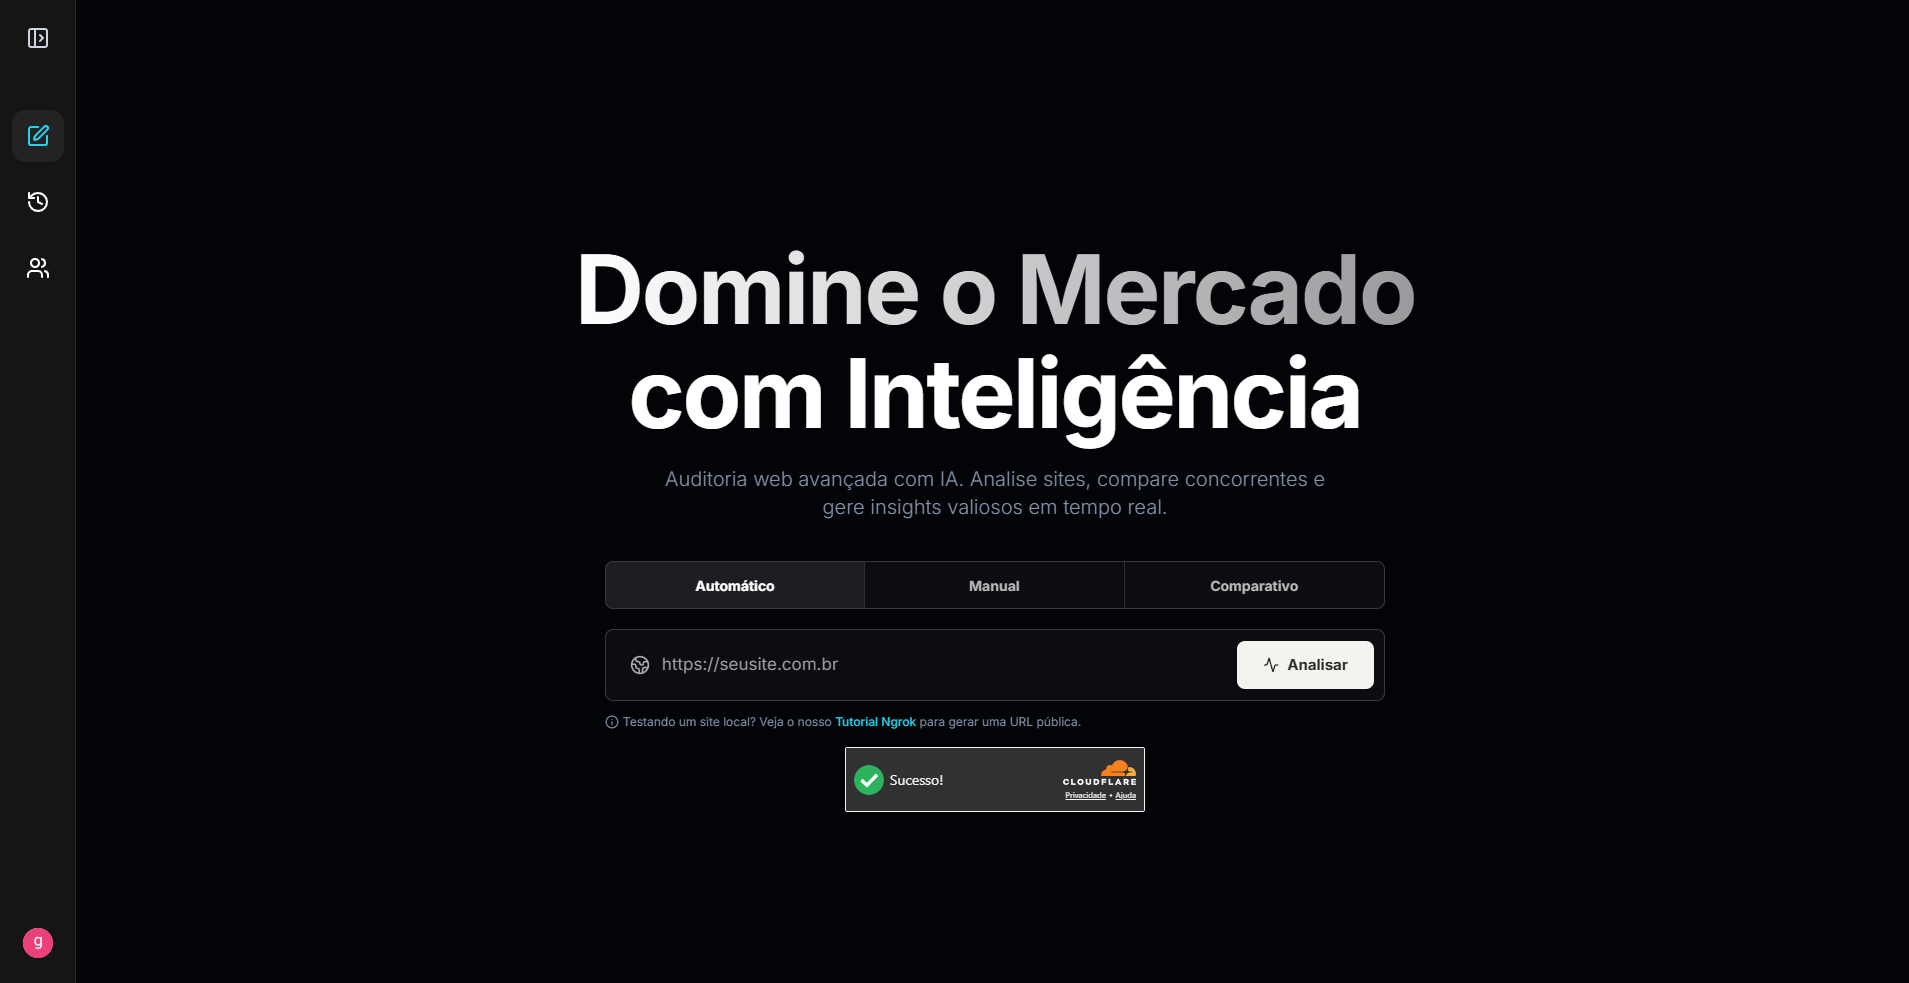
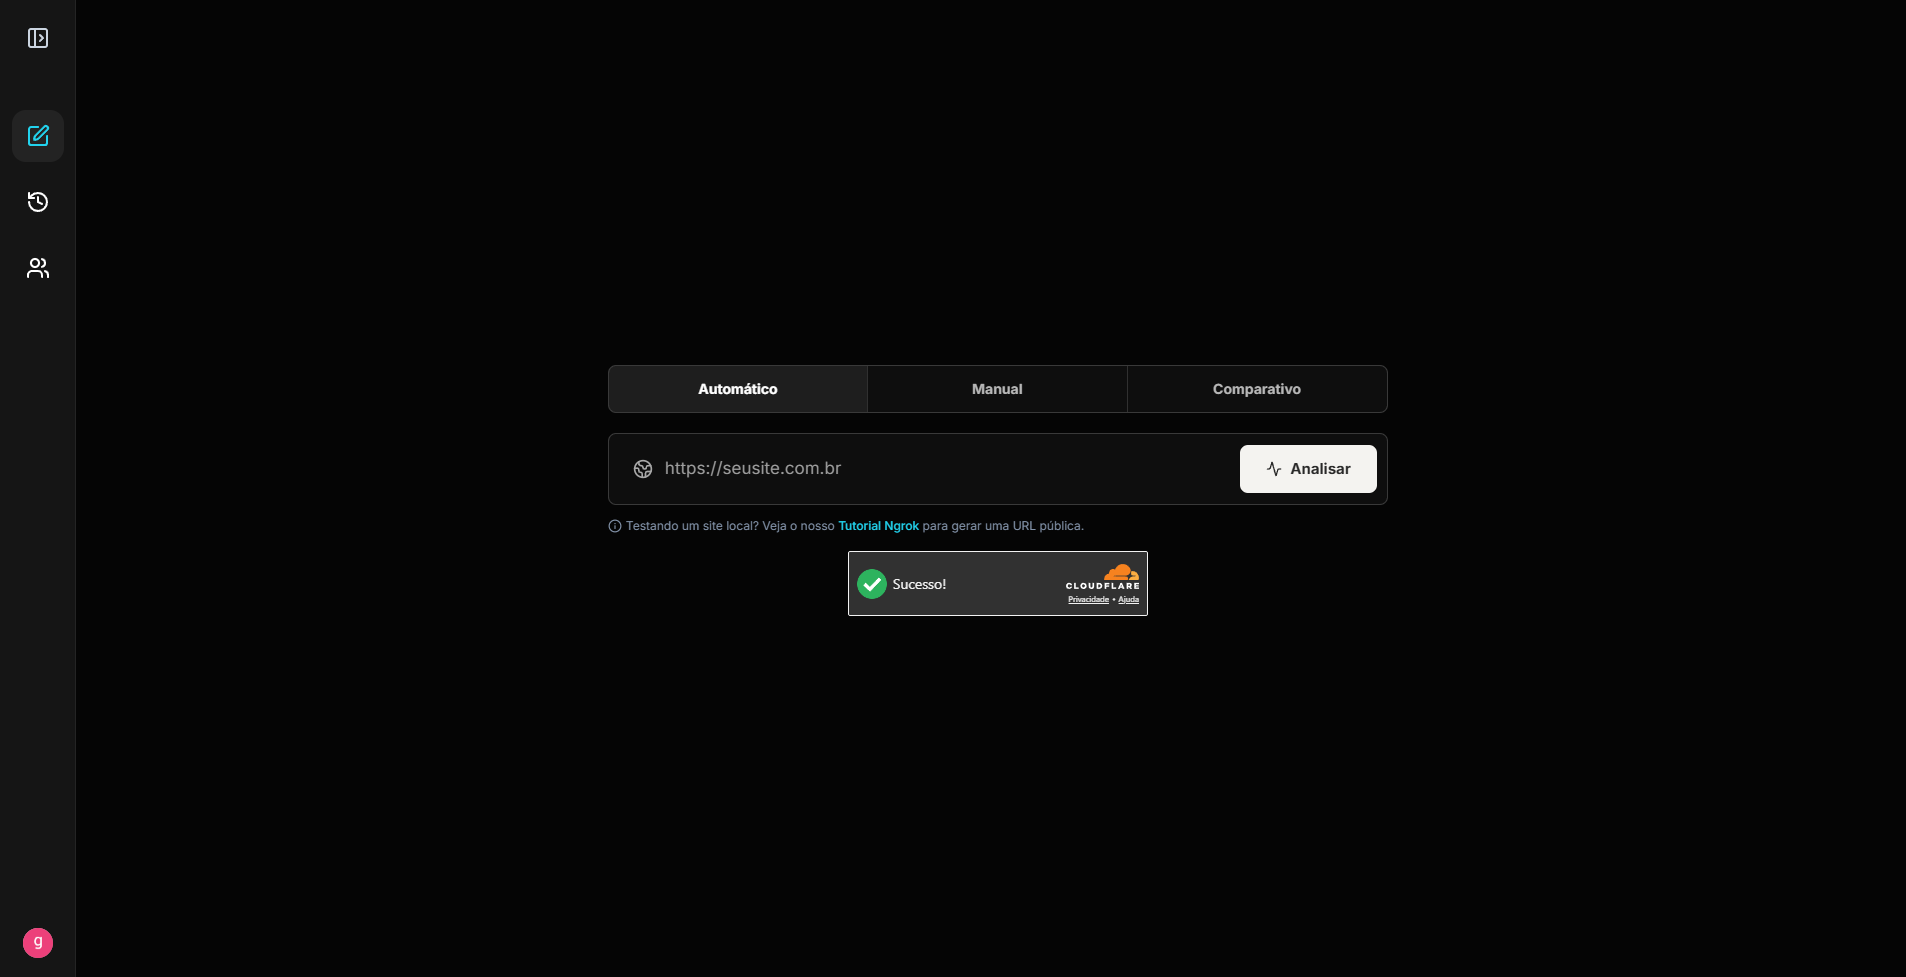
Configuração nova da section hero

diff --git a/sites/index.html b/sites/index.html
@@ -1227,16 +1227,53 @@
     <div data-public-footer="sites"></div>
 
     <script>
+        const prefersReducedMotion = window.matchMedia('(prefers-reduced-motion: reduce)').matches;
+
+        function getStorySectionTop(target) {
+            let top = 0;
+            let element = target;
+
+            while (element) {
+                top += element.offsetTop || 0;
+                element = element.offsetParent;
+            }
+
+            return Math.max(0, top);
+        }
+
+        function navigateToStorySection(target, options = {}) {
+            if (!target) return;
+            const behavior = options.instant || prefersReducedMotion ? 'auto' : 'smooth';
+            window.scrollTo({ top: getStorySectionTop(target), behavior });
+
+            if (options.updateHistory !== false && target.id) {
+                window.history.pushState(null, '', `#${target.id}`);
+            }
+        }
+
         document.querySelectorAll('a[href^="#"]').forEach(anchor => {
             anchor.addEventListener('click', event => {
-                const target = document.querySelector(anchor.getAttribute('href'));
+                const targetId = anchor.getAttribute('href').slice(1);
+                const target = document.getElementById(targetId);
                 if (!target) return;
                 event.preventDefault();
-                target.scrollIntoView({ behavior: 'smooth', block: 'start' });
+                navigateToStorySection(target);
             });
         });
 
-        const prefersReducedMotion = window.matchMedia('(prefers-reduced-motion: reduce)').matches;
+        window.addEventListener('popstate', () => {
+            const target = document.getElementById(window.location.hash.slice(1));
+            if (target) navigateToStorySection(target, { updateHistory: false });
+        });
+
+        window.addEventListener('load', () => {
+            const target = document.getElementById(window.location.hash.slice(1));
+            if (!target) return;
+            window.requestAnimationFrame(() => {
+                navigateToStorySection(target, { instant: true, updateHistory: false });
+            });
+        });
+
         const compactRevealLayout = window.matchMedia('(max-width: 900px), (max-height: 760px)').matches;
         const revealThreshold = compactRevealLayout ? 0.16 : 0.68;
         const revealSelectors = [

diff --git a/index.html b/index.html
@@ -415,7 +415,7 @@
 
                     <div id="heroShowcaseCarousel" class="hero-showcase-carousel" data-interval="7000" aria-label="Demonstração dos serviços S.S.W">
                         <div class="hero-showcase-frame">
-                            <img class="hero-showcase-slide is-active" src="src/assets/images/hero/ssw-platform-audit.png?v=20260622-2" alt="Tela da plataforma S.S.W Intelligence para auditoria de sites" aria-hidden="false">
+                            <img class="hero-showcase-slide is-active" src="src/assets/images/hero/ssw-platform-audit.png?v=20260622-3" alt="Tela da plataforma S.S.W Intelligence para auditoria de sites" aria-hidden="false">
                             <img class="hero-showcase-slide" src="src/assets/images/hero/ssw-sites-service.png" alt="Landing page do serviço de criação de sites da S.S.W" aria-hidden="true">
                             <div class="hero-showcase-controls" aria-label="Selecionar imagem da vitrine">
                                 <button type="button" class="hero-showcase-dot is-active" data-slide-index="0" aria-label="Mostrar plataforma de auditoria" aria-current="true"></button>
